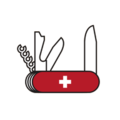
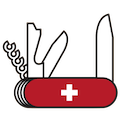
[MOD] : 파비콘 투명 배경으로 전부 변경

diff --git a/frontend/public/index.html b/frontend/public/index.html
@@ -49,11 +49,10 @@
     <link rel="apple-touch-icon" sizes="144x144" href="./apple-icon-144x144.png">
     <link rel="apple-touch-icon" sizes="152x152" href="./apple-icon-152x152.png">
     <link rel="apple-touch-icon" sizes="180x180" href="./apple-icon-180x180.png">
-    <link rel="icon" type="image/png" href="./logo.png">
-    <!-- <link rel="icon" type="image/png" sizes="192x192"  href="./android-icon-192x192.png">
+    <link rel="icon" type="image/png" sizes="192x192"  href="./android-icon-192x192.png">
     <link rel="icon" type="image/png" sizes="32x32" href="./favicon-32x32.png">
     <link rel="icon" type="image/png" sizes="96x96" href="./favicon-96x96.png">
-    <link rel="icon" type="image/png" sizes="16x16" href="./favicon-16x16.png"> -->
+    <link rel="icon" type="image/png" sizes="16x16" href="./favicon-16x16.png">
     <link rel="manifest" href="./manifest.json">
     <meta name="msapplication-TileColor" content="#ffffff">
     <meta name="msapplication-TileImage" content="./ms-icon-144x144.png">
